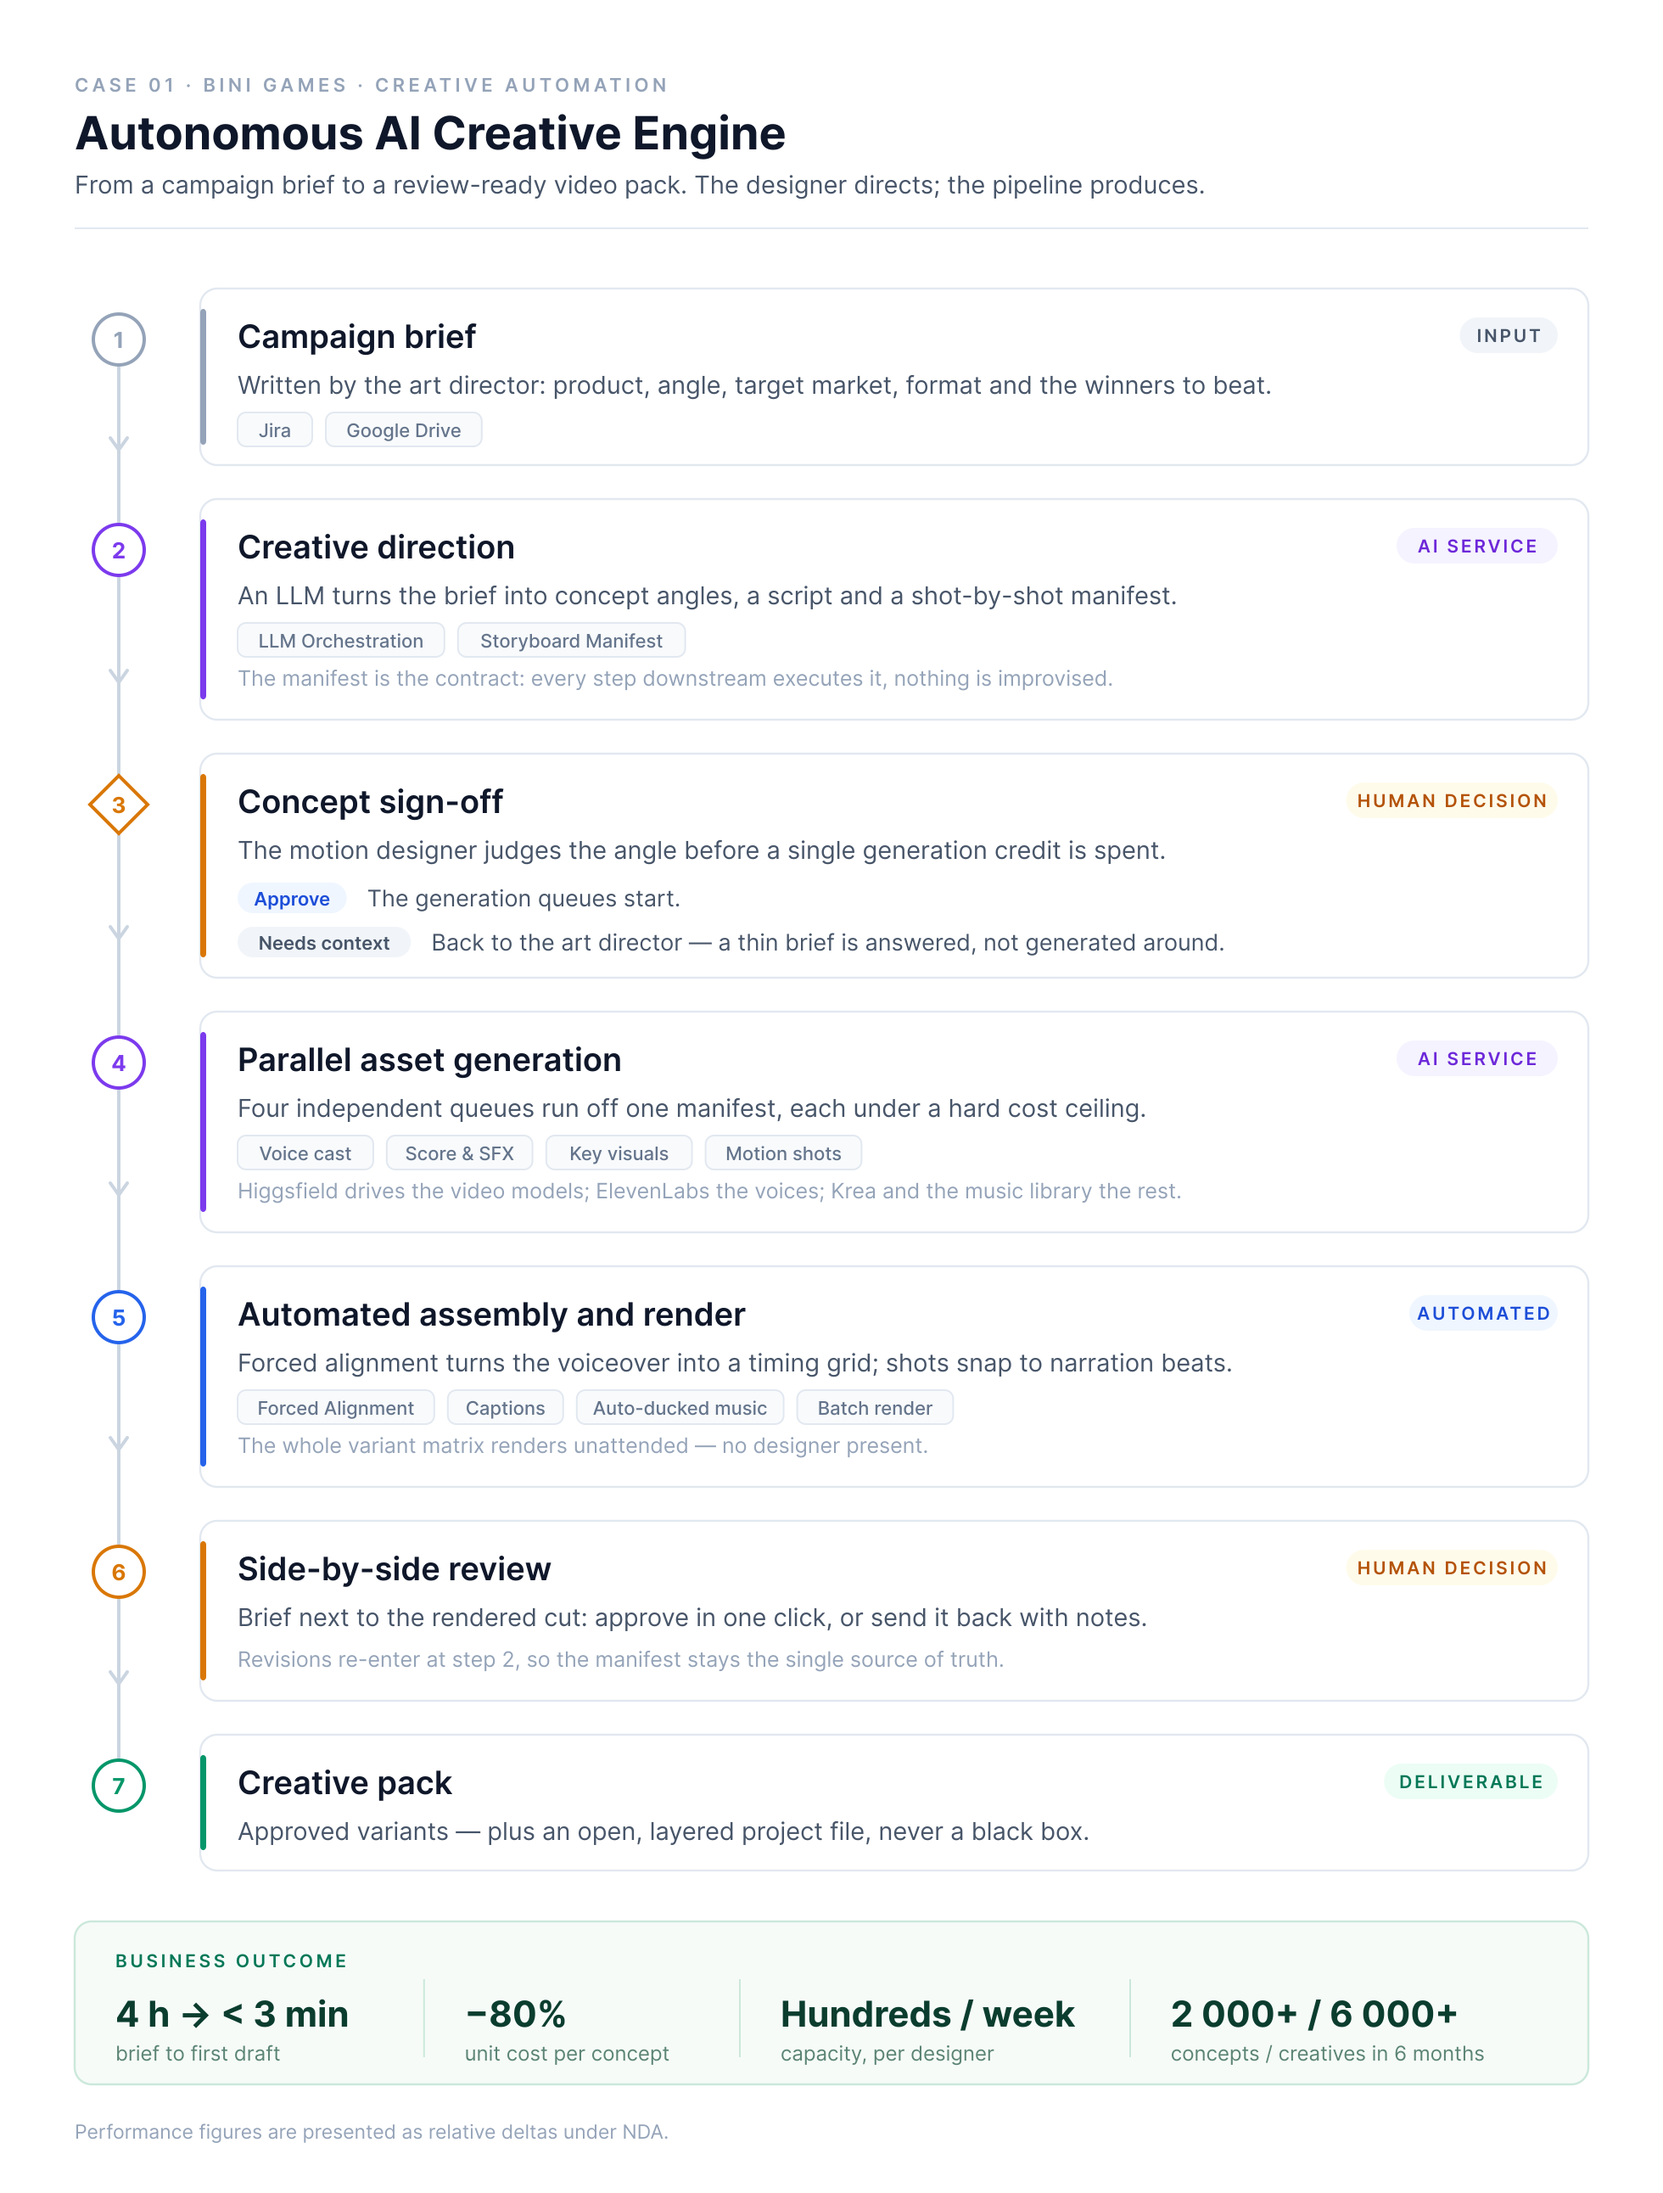
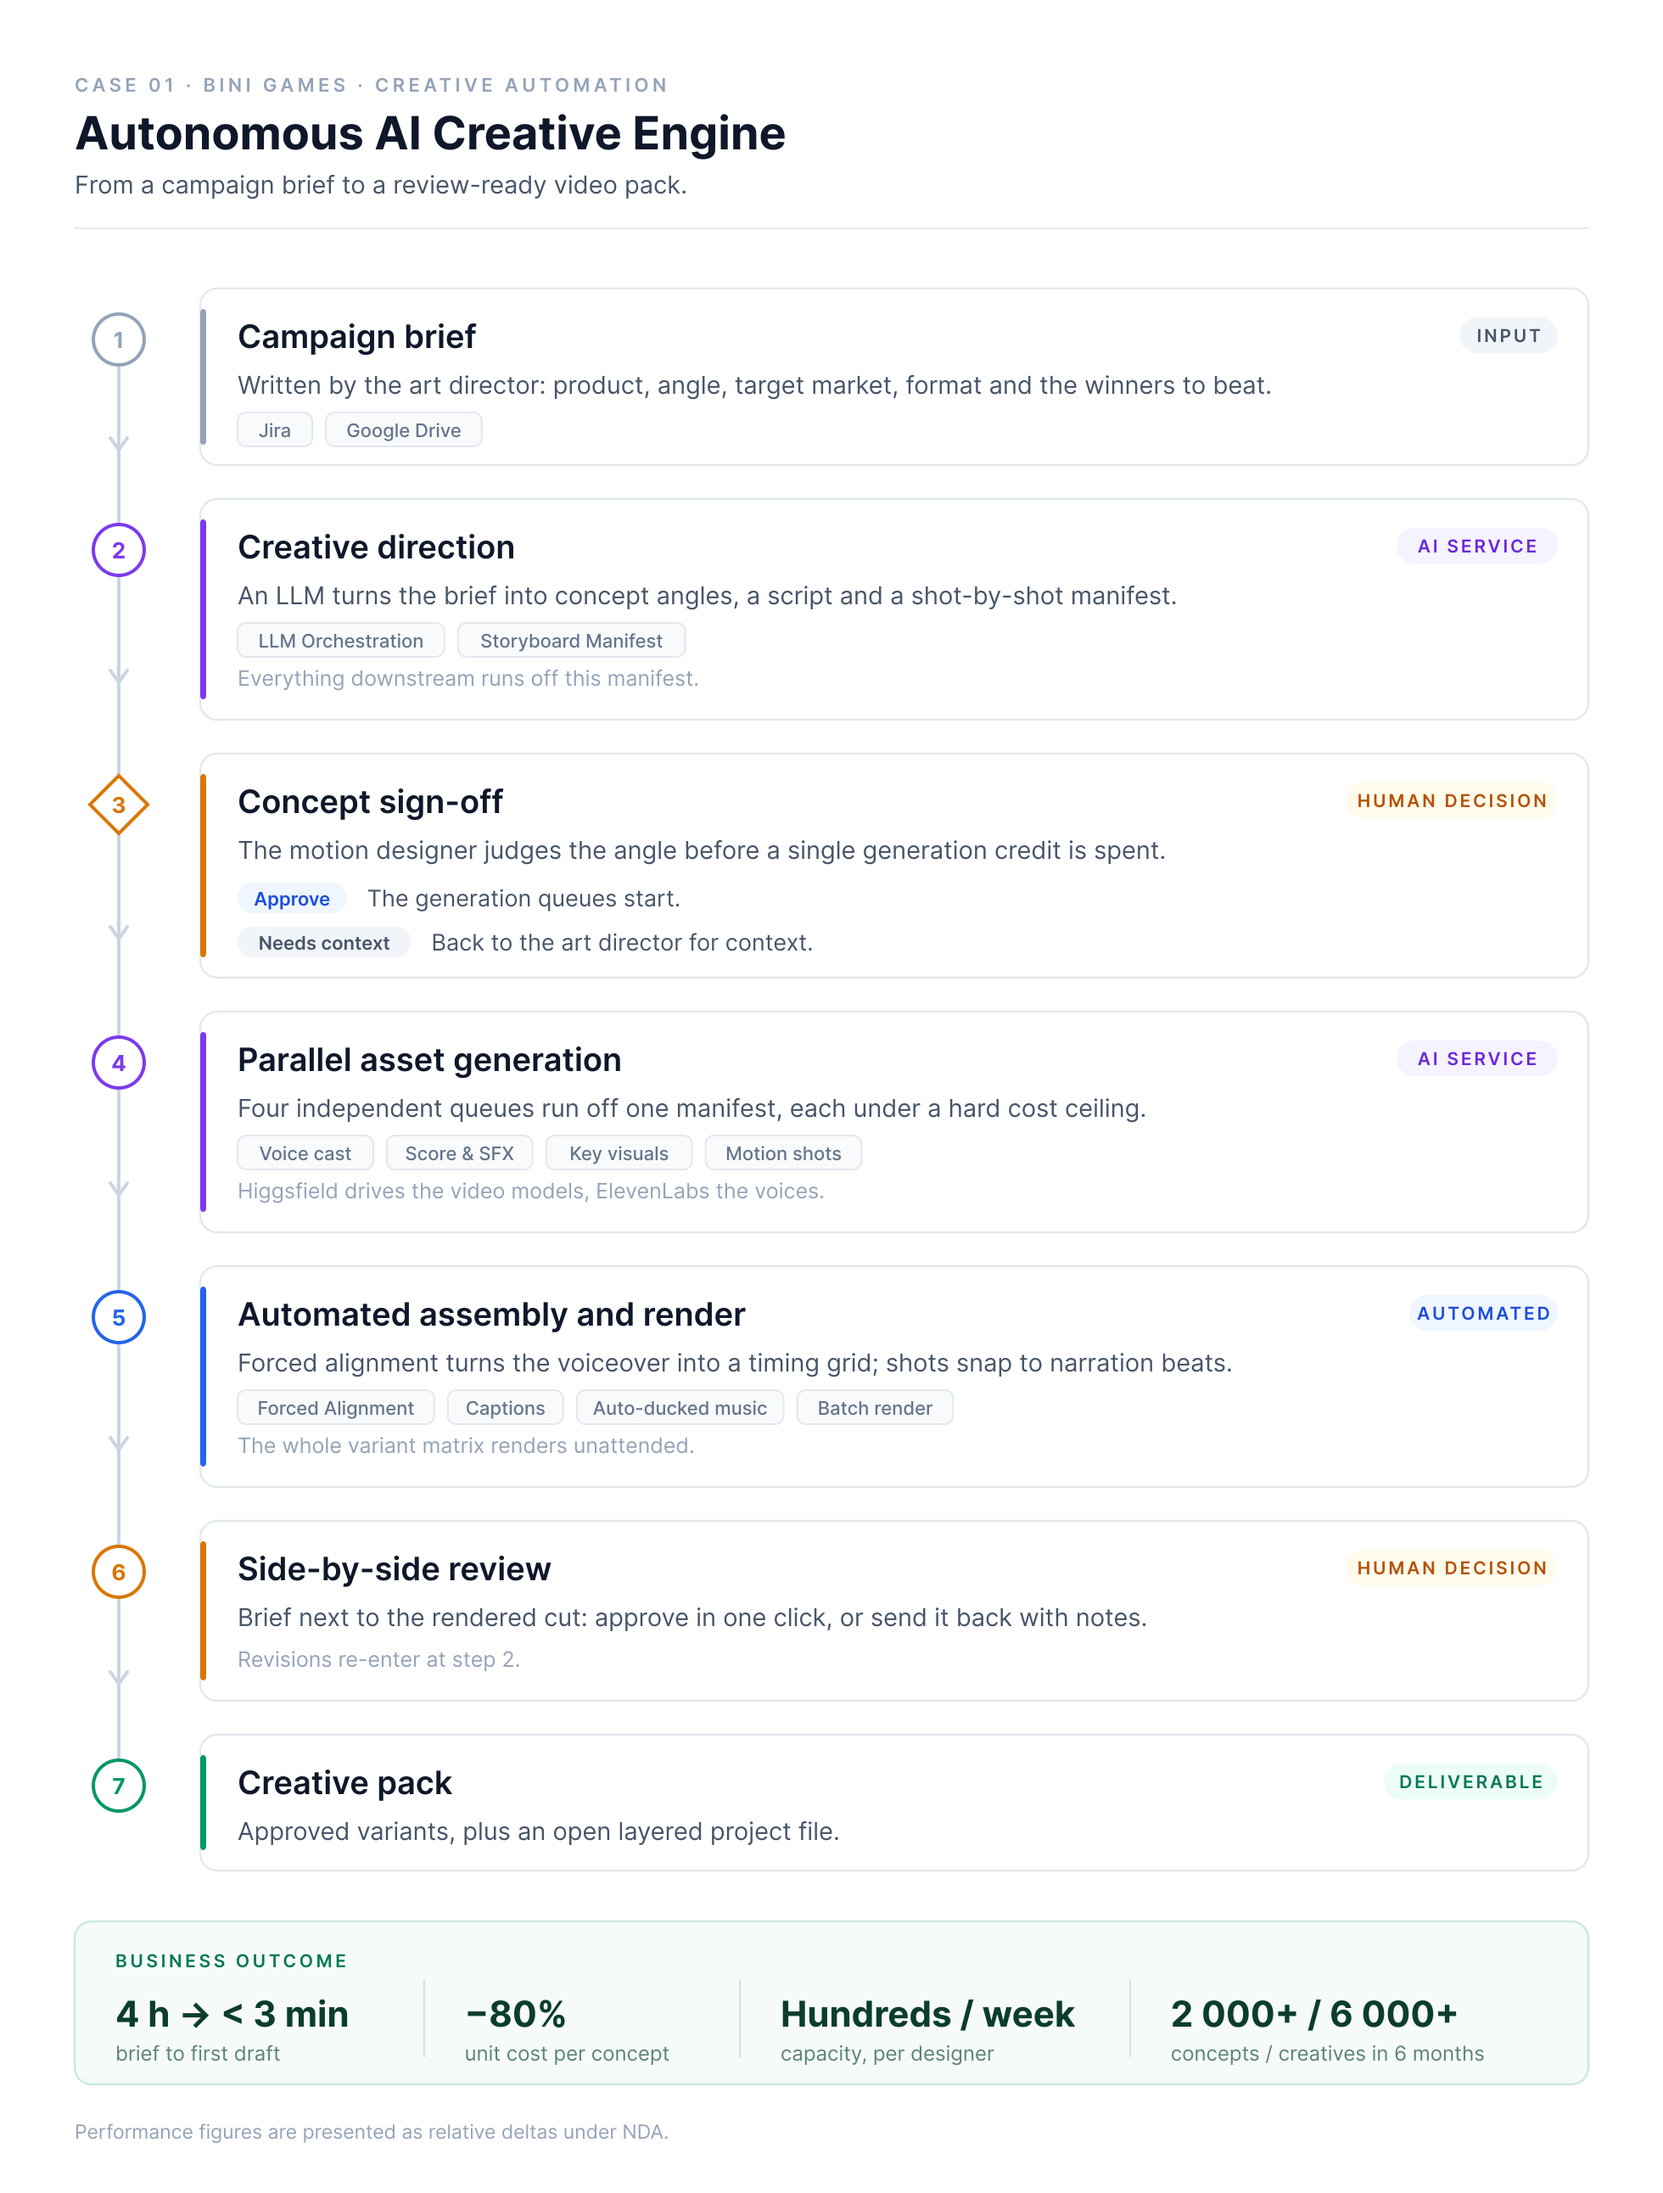
Plainer diagram copy: drop the slogans and the 'X, not Y' habit

Changed region(s): [[0.4668, 0.4025, 0.498, 0.4334], [0.4668, 0.0619, 0.498, 0.0929]]

diff --git a/case1_autonomous_pipeline.py b/case1_autonomous_pipeline.py
@@ -6,7 +6,7 @@ from flowkit import Flow
 
 f = Flow("CASE 01 · BINI GAMES · CREATIVE AUTOMATION",
          "Autonomous AI Creative Engine",
-         "From a campaign brief to a review-ready video pack. The designer directs; the pipeline produces.")
+         "From a campaign brief to a review-ready video pack.")
 
 f.step(1, "Campaign brief",
        "Written by the art director: product, angle, target market, format and the winners to beat.",
@@ -15,32 +15,32 @@ f.step(1, "Campaign brief",
 f.step(2, "Creative direction",
        "An LLM turns the brief into concept angles, a script and a shot-by-shot manifest.",
        role="ai", chips=["LLM Orchestration", "Storyboard Manifest"],
-       note="The manifest is the contract: every step downstream executes it, nothing is improvised.")
+       note="Everything downstream runs off this manifest.")
 
 f.step(3, "Concept sign-off",
        "The motion designer judges the angle before a single generation credit is spent.",
        role="human",
        branches=[
            ("Approve", "The generation queues start.", "system"),
-           ("Needs context", "Back to the art director — a thin brief is answered, not generated around.", "input"),
+           ("Needs context", "Back to the art director for context.", "input"),
        ])
 
 f.step(4, "Parallel asset generation",
        "Four independent queues run off one manifest, each under a hard cost ceiling.",
        role="ai", chips=["Voice cast", "Score & SFX", "Key visuals", "Motion shots"],
-       note="Higgsfield drives the video models; ElevenLabs the voices; Krea and the music library the rest.")
+       note="Higgsfield drives the video models, ElevenLabs the voices.")
 
 f.step(5, "Automated assembly and render",
        "Forced alignment turns the voiceover into a timing grid; shots snap to narration beats.",
        role="system", chips=["Forced Alignment", "Captions", "Auto-ducked music", "Batch render"],
-       note="The whole variant matrix renders unattended — no designer present.")
+       note="The whole variant matrix renders unattended.")
 
 f.step(6, "Side-by-side review",
        "Brief next to the rendered cut: approve in one click, or send it back with notes.",
-       role="human", note="Revisions re-enter at step 2, so the manifest stays the single source of truth.")
+       role="human", note="Revisions re-enter at step 2.")
 
 f.step(7, "Creative pack",
-       "Approved variants — plus an open, layered project file, never a black box.",
+       "Approved variants, plus an open layered project file.",
        role="output")
 
 f.outcome([

diff --git a/case4_localization_engine.py b/case4_localization_engine.py
@@ -11,7 +11,7 @@ f = Flow("CASE 04 · STORYBY · GLOBAL SCALING",
 f.step(1, "Winning creative and target markets",
        "The approved master cut, the edit decisions behind it, and the market list.",
        role="input",
-       note="A creative enters the queue the moment it wins the auction — no hand-off meeting, no ticket.")
+       note="A creative enters the queue the moment it wins the auction.")
 
 f.step(2, "Speech map",
        "Segments the master read into phrases with hard boundaries.",
@@ -21,22 +21,22 @@ f.step(3, "Routing decision",
        "Is this a re-cut of a master that has already been dubbed?",
        role="decision",
        branches=[
-           ("Yes", "Base reuse — the editor's own trim already defines the mapping. 1:1, no re-timing.", "output"),
+           ("Yes", "Base reuse. The editor's trim already defines the mapping, 1:1.", "output"),
            ("No", "Send the read down the adaptive re-timing ladder.", "system"),
        ],
-       note="Five categorical checks, never a statistical guess. This one decision removes the costliest class of dubbing error.")
+       note="Five categorical checks, not a similarity score.")
 
 f.step(4, "Adaptive re-timing ladder",
-       "Each rung is tried only when the previous one runs out of room — the cheapest fix wins.",
+       "Each rung runs only when the previous one runs out of room.",
        role="system",
        chips=["1 · Micro-pacing", "2 · Picture remap", "3 · Semantic condensation"])
 
 f.step(5, "Voice cast and stem-aware mix",
-       "The original music bed survives, because the voice is separated out before the dub goes in.",
+       "The voice is separated out first, so the original music bed survives.",
        role="ai", chips=["Multilingual voice", "Stem separation"])
 
 f.step(6, "Shippability check",
-       "A read that no longer fits the picture is escalated, never shipped quietly.",
+       "A read that no longer fits the picture goes to a person.",
        role="human")
 
 f.step(7, "Localised pack",
@@ -49,8 +49,7 @@ f.outcome([
     ("1.5 h → 0 min", "designer time per release"),
     ("1:1", "fidelity on a re-cut"),
 ])
-f.footnote("Later folded into Case 03, where the same engine runs inside the application. "
-           "Performance figures are presented as relative deltas under NDA.")
+f.footnote("Later folded into Case 03. Figures are relative deltas under NDA.")
 
 out = os.path.join(os.path.dirname(os.path.abspath(__file__)), "case4_localization_engine.svg")
 print(*f.save(out))

diff --git a/case2_ae_automation_suite.py b/case2_ae_automation_suite.py
@@ -11,12 +11,12 @@ f = Flow("CASE 02 · STORYBY · IN-TOOL AUTOMATION",
 f.step(1, "Creative code",
        "The composition name is the spec: film, scene, hook, on-screen copy, music.",
        role="input",
-       note="The trigger is the naming convention the studio already used — nothing new for the team to learn.")
+       note="The naming convention the studio already used.")
 
 f.step(2, "Parser and asset resolver",
        "Decodes the code, resolves every asset from the library, repairs unreadable media.",
        role="system", chips=["Naming grammar", "Auto-heal", "Preflight report"],
-       note="Real gaps are reported before the queue starts, instead of killing a render halfway through.")
+       note="Gaps are reported before the queue starts.")
 
 f.step(3, "Automated comp build",
        "Footage and hook layout, automatic overlay keying, approved copy from the production database.",
@@ -31,11 +31,11 @@ f.step(5, "Variation matrix and batch render",
        role="system", chips=["Split-test ready", "Renders as video or as statics"])
 
 f.step(6, "Designer review",
-       "Native, fully editable comps come back to the designer — automation never becomes a black box.",
+       "Native, fully editable comps come back to the designer.",
        role="human")
 
 f.step(7, "Variation pack",
-       "Eight variations ready to test; three to ten packs go out on a normal production day.",
+       "Eight variations ready to test. Three to ten packs go out on a normal day.",
        role="output")
 
 f.outcome([
@@ -44,8 +44,7 @@ f.outcome([
     ("20–100 min → minutes", "per pack, hands-on"),
     ("0", "renders lost to gaps"),
 ])
-f.footnote("Later superseded by Case 03, which rebuilt the same production logic outside After Effects. "
-           "Performance figures are presented as relative deltas under NDA.")
+f.footnote("Case 03 rebuilt the same logic outside After Effects. Figures are relative deltas under NDA.")
 
 out = os.path.join(os.path.dirname(os.path.abspath(__file__)), "case2_ae_automation_suite.svg")
 print(*f.save(out))

diff --git a/case3_unified_application.py b/case3_unified_application.py
@@ -17,18 +17,17 @@ f.step(2, "Batch build planner",
        role="system", chips=["Preflight report"])
 
 f.step(3, "Missing-asset review",
-       "The designer closes the real gaps; from there the batch runs unattended.",
+       "The designer closes the gaps, then the batch runs unattended.",
        role="human")
 
 f.step(4, "Unique asset creation",
        "Subscenes and hooks are cut automatically from approved masters; generative shots fill what the library lacks.",
-       role="ai", chips=["Shot detection", "Hook re-cut", "Generative video"],
-       note="The designer now directs unique assets instead of producing each one by hand.")
+       role="ai", chips=["Shot detection", "Hook re-cut", "Generative video"])
 
 f.step(5, "Assembly and captions",
        "A full multi-track timeline — ripple, blade, rate stretch, snapping, live preview — with word-level captions.",
        role="system", chips=["Custom NLE core", "FFmpeg", "WebCodecs"],
-       note="No After Effects anywhere in the chain, and every model runs locally on the designer's machine.")
+       note="No After Effects in the chain. Every model runs locally.")
 
 f.step(6, "Localisation",
        "20+ markets in one pass: voice cast, translated on-screen copy, re-timed captions.",
@@ -44,8 +43,7 @@ f.outcome([
     ("~100%", "of routine automated"),
     ("−80%", "unique asset creation"),
 ])
-f.footnote("Evolved out of Case 02 — the same production logic, rebuilt as a standalone application. "
-           "Performance figures are presented as relative deltas under NDA.")
+f.footnote("Evolved out of Case 02, rebuilt as a standalone application. Figures are relative deltas under NDA.")
 
 out = os.path.join(os.path.dirname(os.path.abspath(__file__)), "case3_unified_application.svg")
 print(*f.save(out))

diff --git a/case5_semantic_dam.py b/case5_semantic_dam.py
@@ -6,7 +6,7 @@ from flowkit import Flow
 
 f = Flow("CASE 05 · DOCUMENTARY & EXPLAINER PRODUCTION",
          "Semantic Archive Search & Timeline Drafter",
-         "Makes a terabyte footage archive answerable in plain language — and returns a first cut, not a search result.")
+         "Makes a terabyte footage archive answerable in plain language, and returns a first cut.")
 
 f.step(1, "Footage archive",
        "Terabytes of licensed archive, b-roll and interview rushes.",
@@ -19,10 +19,10 @@ f.step(2, "Shot segmentation",
 f.step(3, "Description and indexing",
        "A vision model describes each shot, speech is transcribed, both land in one searchable index.",
        role="ai", chips=["Vision model", "Transcription", "Vector index"],
-       note="Indexing runs once per archive; every project after that queries it for free.")
+       note="Indexed once per archive, reused by every project after.")
 
 f.step(4, "Script-driven retrieval",
-       "The approved script, broken into narrative beats, becomes the query — each beat gets scored candidates.",
+       "The approved script, broken into beats, becomes the query. Each beat gets scored candidates.",
        role="ai", chips=["Semantic retrieval", "Confidence score"])
 
 f.step(5, "Rule-based assembly",
@@ -30,7 +30,7 @@ f.step(5, "Rule-based assembly",
        role="system", chips=["Editorial rules"])
 
 f.step(6, "Editor review",
-       "Low-confidence cuts are flagged on the timeline, not hidden. The system drafts; the editor decides.",
+       "Low-confidence cuts are flagged on the timeline for the editor.",
        role="human")
 
 f.step(7, "Handoff to the editor's NLE",
